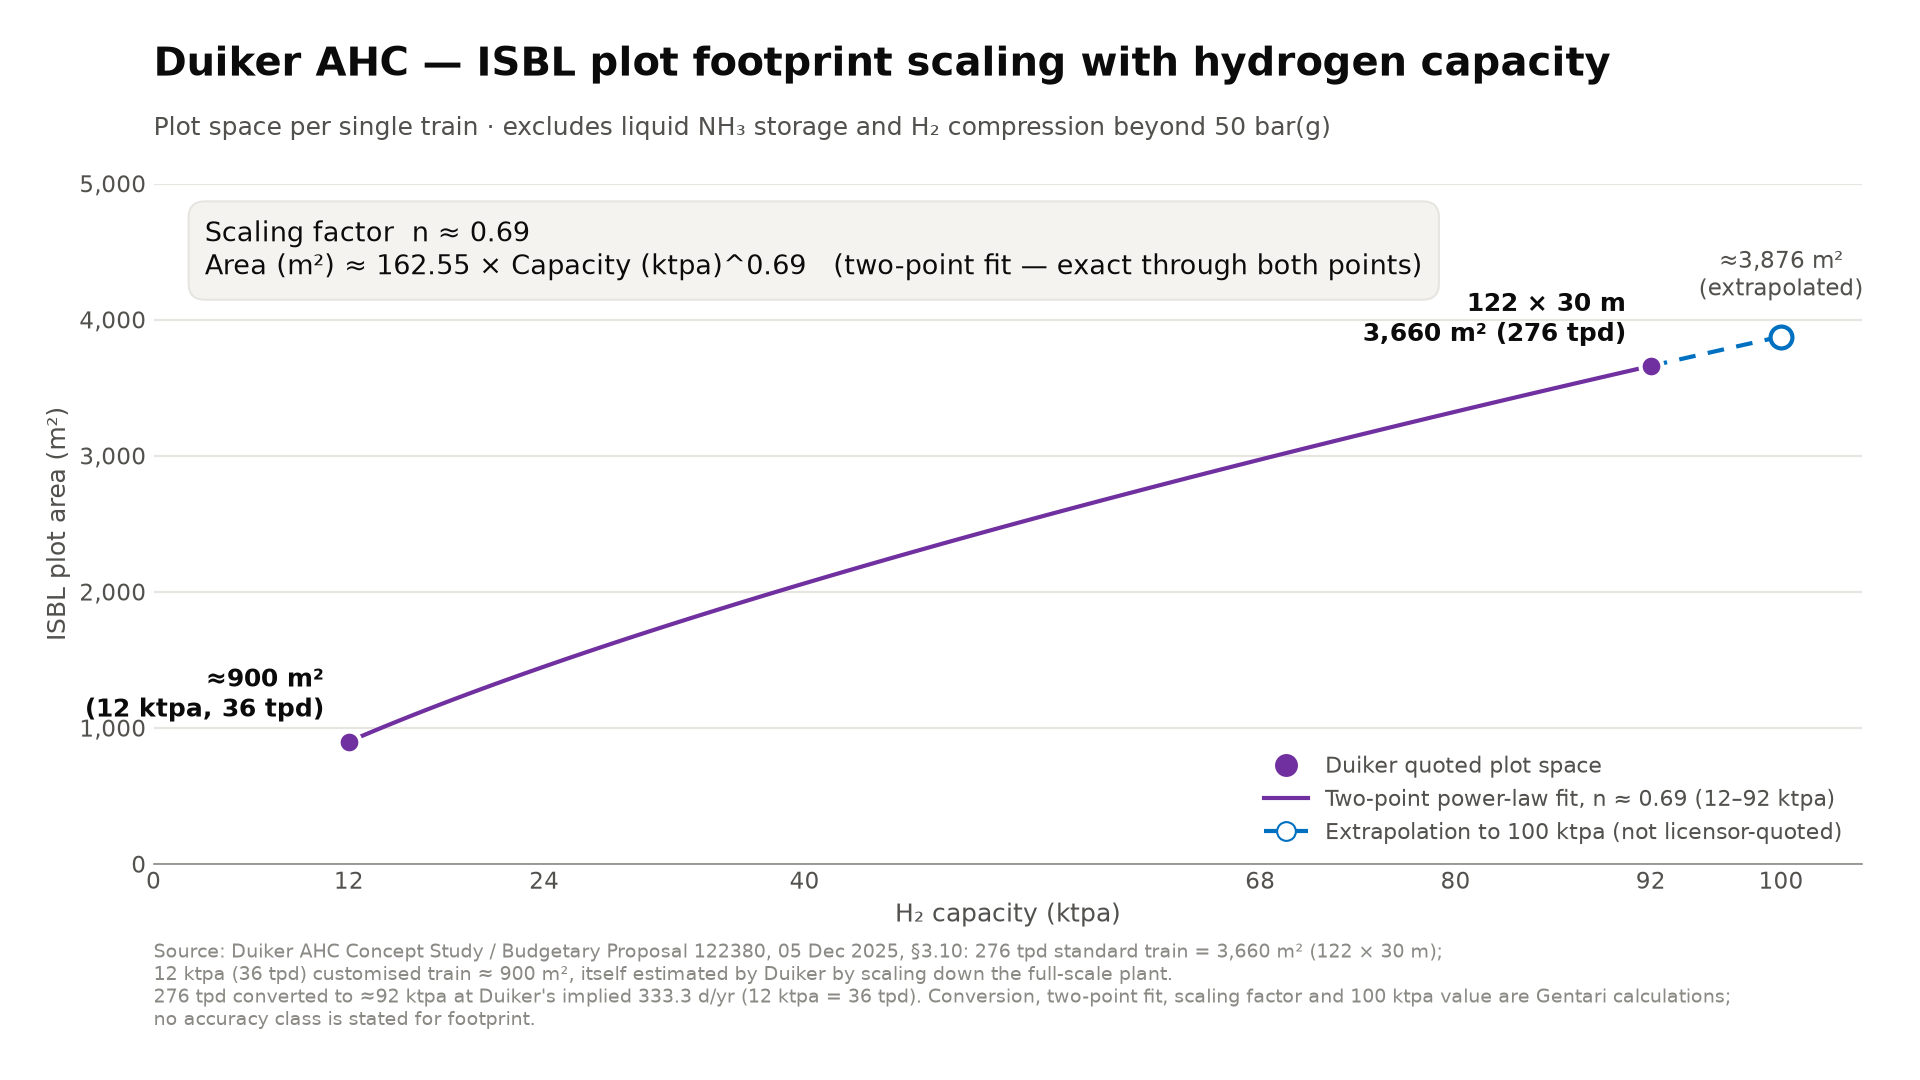
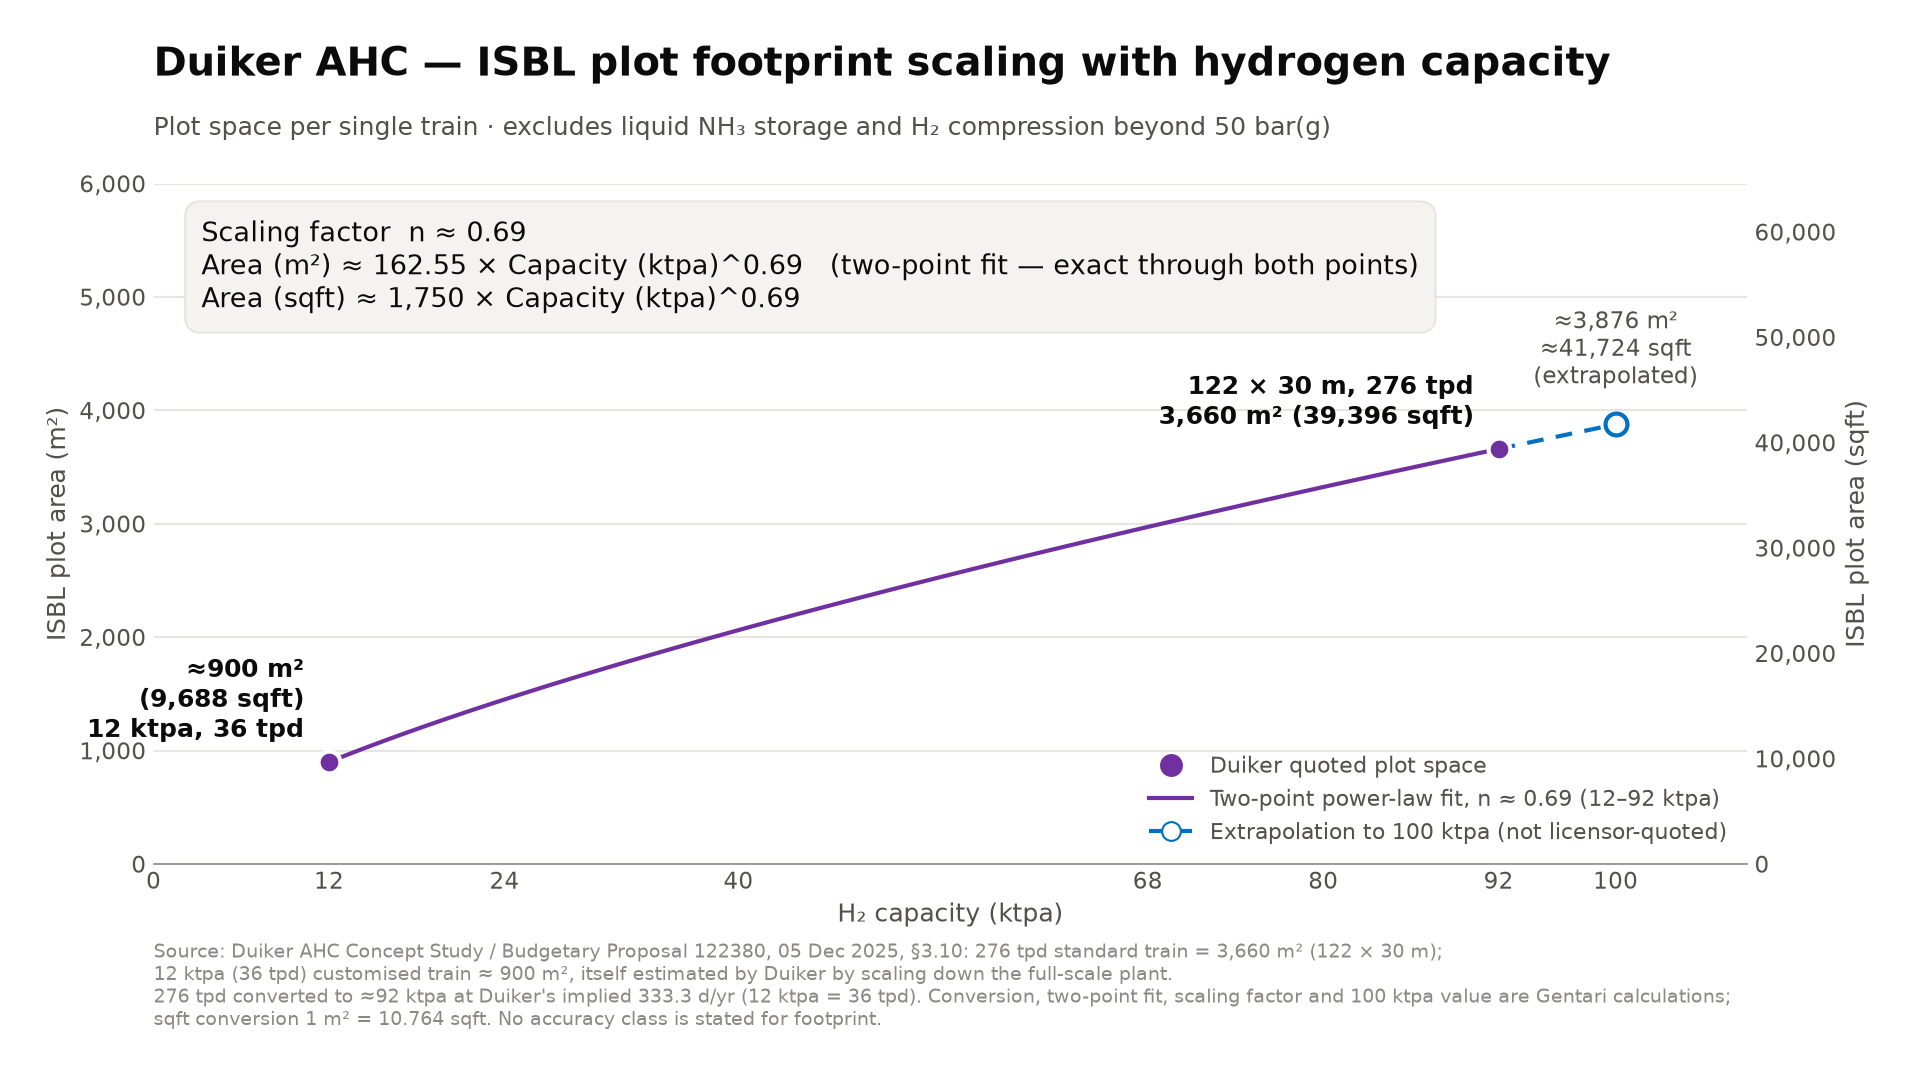
Show sqft alongside m² on KBR and Duiker footprint charts
Adds sqft to point labels, the 100 ktpa label and the formula box, plus a
right-hand sqft axis (unit conversion only, 1 m² = 10.7639 sqft).

Claude-Session: https://claude.ai/code/session_015mp414dpgytFbnaSBdpmmx

diff --git a/tools/licensor_charts.py b/tools/licensor_charts.py
@@ -33,6 +33,7 @@ SURFACE = "#ffffff"
 # Duiker states 12 ktpa = 36 tpd, i.e. an implied 333.3 onstream days/yr.
 # Its standard 276 tpd train converts to ktpa on that same implied basis.
 DUIKER_DAYS = 12_000 / 36
+SQFT_PER_M2 = 1 / 0.3048 ** 2  # 10.7639 (international foot, exact definition)
 DUIKER_STD_TRAIN_KTPA = 276 * DUIKER_DAYS / 1000  # ~92.0 ktpa [DERIVED]
 
 
@@ -56,6 +57,7 @@ class Chart:
     vline: tuple = None        # (x, label) reference marker
     xticks: list = field(default_factory=lambda: [0, 12, 24, 40, 68, 80, 100])
     labels_below: bool = False  # put point labels below-right of the marker
+    sqft: bool = False          # footprint charts: also show ft² (labels, formula, right axis)
     legend_anchor: tuple = (1.0, 0.0)
 
 
@@ -77,7 +79,7 @@ def draw(ch: Chart) -> dict:
     plt.rcParams.update({"font.family": "DejaVu Sans", "font.size": 11})
     fig, ax = plt.subplots(figsize=(12.8, 7.2), dpi=150, facecolor=SURFACE)
     ax.set_facecolor(SURFACE)
-    fig.subplots_adjust(left=0.08, right=0.97, top=0.83, bottom=0.20)
+    fig.subplots_adjust(left=0.08, right=0.91 if ch.sqft else 0.97, top=0.83, bottom=0.20)
 
     if ch.accuracy:
         ax.errorbar(x, y, yerr=y * ch.accuracy, fmt="none", ecolor=SECONDARY, alpha=0.35,
@@ -108,26 +110,38 @@ def draw(ch: Chart) -> dict:
         else:
             ax.annotate(lab, (xi, yi), xytext=(-12, 12), textcoords="offset points",
                         ha="right", fontsize=12, fontweight="bold", color=INK)
-    ax.annotate(f"≈{ch.value_fmt.format(extrap)}\n(extrapolated)", (EXTRAP_KTPA, extrap),
+    extrap_txt = f"≈{ch.value_fmt.format(extrap)}"
+    if ch.sqft:
+        extrap_txt += f"\n≈{extrap * SQFT_PER_M2:,.0f} sqft"
+    ax.annotate(f"{extrap_txt}\n(extrapolated)", (EXTRAP_KTPA, extrap),
                 xytext=(0, 16), textcoords="offset points", ha="center", va="bottom",
                 fontsize=11, color=INK_2)
 
     if ch.assumed_n is None:
         fit_note = f"(R² = {r2:.4f}, log-log)" if len(x) > 2 else "(two-point fit — exact through both points)"
         box = (f"Scaling factor  n ≈ {n:.2f}\n"
-               f"{ch.unit} ≈ {a:.2f} × Capacity (ktpa)^{n:.2f}   {fit_note}")
+               f"{ch.unit} ≈ {a:,.2f} × Capacity (ktpa)^{n:.2f}   {fit_note}")
+        if ch.sqft:
+            box += f"\nArea (sqft) ≈ {a * SQFT_PER_M2:,.0f} × Capacity (ktpa)^{n:.2f}"
     else:
         box = (f"Scaling factor  n = {n:.1f}  (ASSUMED — six-tenths rule, not Duiker-specific)\n"
                f"{ch.unit} ≈ {a:.2f} × Capacity (ktpa)^{n:.1f}   (anchored on the single quoted point)")
     ax.text(0.03, 0.95, box, transform=ax.transAxes, va="top", ha="left", fontsize=13,
             color=INK, bbox=dict(boxstyle="round,pad=0.6", fc="#f4f3ef", ec=GRID))
 
-    ax.set_xlim(0, 105)
+    ax.set_xlim(0, 109 if ch.sqft else 105)
     ax.set_ylim(0, ch.ylim)
     ax.set_xticks(ch.xticks)
     ax.set_xlabel("H₂ capacity (ktpa)", color=INK_2, fontsize=12)
     ax.set_ylabel(ch.ylabel, color=INK_2, fontsize=12)
     ax.yaxis.set_major_formatter(matplotlib.ticker.FuncFormatter(lambda v, _: f"{v:,.0f}"))
+    if ch.sqft:
+        sec = ax.secondary_yaxis("right", functions=(lambda v: v * SQFT_PER_M2,
+                                                      lambda v: v / SQFT_PER_M2))
+        sec.set_ylabel("ISBL plot area (sqft)", color=INK_2, fontsize=12)
+        sec.yaxis.set_major_formatter(matplotlib.ticker.FuncFormatter(lambda v, _: f"{v:,.0f}"))
+        sec.tick_params(colors=INK_2, length=0)
+        sec.spines["right"].set_visible(False)
     ax.grid(axis="y", color=GRID, lw=1)
     ax.set_axisbelow(True)
     for s in ("top", "right", "left"):
@@ -214,13 +228,14 @@ CHARTS = [
                   "(12 ktpa: see also Preliminary Plot Plan, Annexure I.I).\n"
                   "KBR notes the footprint can be optimised further, especially on an existing industrial site, "
                   "and that modularisation is possible. No accuracy class is stated.\n"
-                  "Areas (length × width), fit, scaling factor and 100 ktpa value are Gentari calculations "
-                  "from KBR's quoted plot dimensions."),
+                  "Areas (length × width), sqft conversion (1 m² = 10.764 sqft), fit, scaling factor and "
+                  "100 ktpa value are Gentari calculations from KBR's quoted plot dimensions."),
         cap=KBR_CAP, val=[m2(d) for d in KBR_FOOTPRINT_M],
-        point_labels=[f"{l} × {w} m\n{l * w:,} m²" for l, w in KBR_FOOTPRINT_M],
+        point_labels=[f"{l} × {w} m\n{l * w:,} m²\n({l * w * SQFT_PER_M2:,.0f} sqft)"
+                      for l, w in KBR_FOOTPRINT_M],
         value_fmt="{:,.0f} m²", unit="Area (m²)", ylim=11000,
         fit_label="Power-law fit",
-        labels_below=True,
+        labels_below=True, sqft=True,
     ),
     Chart(
         filename="duiker_footprint_scaling.png",
@@ -235,11 +250,12 @@ CHARTS = [
                   f"≈{DUIKER_STD_TRAIN_KTPA:.0f} ktpa at Duiker's implied {DUIKER_DAYS:.1f} d/yr "
                   "(12 ktpa = 36 tpd). Conversion, two-point fit, scaling factor and 100 ktpa value are "
                   "Gentari calculations;\n"
-                  "no accuracy class is stated for footprint."),
+                  "sqft conversion 1 m² = 10.764 sqft. No accuracy class is stated for footprint."),
         cap=[12, DUIKER_STD_TRAIN_KTPA], val=[900, 3660],
-        point_labels=["≈900 m²\n(12 ktpa, 36 tpd)", "122 × 30 m\n3,660 m² (276 tpd)"],
-        value_fmt="{:,.0f} m²", unit="Area (m²)", ylim=5000,
-        fit_label="Two-point power-law fit",
+        point_labels=[f"≈900 m²\n({900 * SQFT_PER_M2:,.0f} sqft)\n12 ktpa, 36 tpd",
+                      f"122 × 30 m, 276 tpd\n3,660 m² ({3660 * SQFT_PER_M2:,.0f} sqft)"],
+        value_fmt="{:,.0f} m²", unit="Area (m²)", ylim=6000,
+        fit_label="Two-point power-law fit", sqft=True,
         xticks=[0, 12, 24, 40, 68, 80, 92, 100],
     ),
 ]

diff --git a/memory.md b/memory.md
@@ -511,3 +511,11 @@ admin-editable on the workbook's `Constants` sheet.
     (Duiker excludes NH₃ storage and H₂ compression beyond 50 bar(g); KBR
     excludes offsites & utilities). Check scope before comparing the two
     footprints directly.
+- **2026-09-30** — Footprint charts (`kbr_footprint_scaling.png`,
+  `duiker_footprint_scaling.png`) now show **sqft alongside m²**: point labels,
+  100 ktpa label, formula box, and a right-hand sqft axis (a unit conversion of
+  the same values, not a second measure). Conversion 1 m² = 10.7639 sqft
+  (international foot, 0.3048 m exact). In sqft: KBR 37,674 / 47,361 / 76,693 /
+  80,729 sqft at 12/24/68/80 ktpa, Area ≈ 13,194 × ktpa^0.41 → ≈88,595 sqft @
+  100 ktpa; Duiker ≈9,688 sqft @ 12 ktpa, 39,396 sqft @ 276 tpd,
+  Area ≈ 1,750 × ktpa^0.69 → ≈41,724 sqft @ 100 ktpa [all DERIVED].
